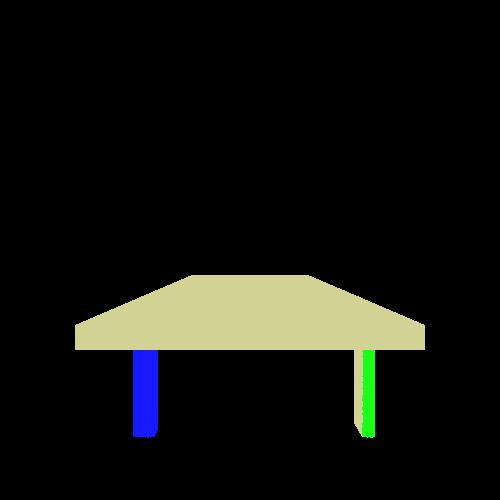
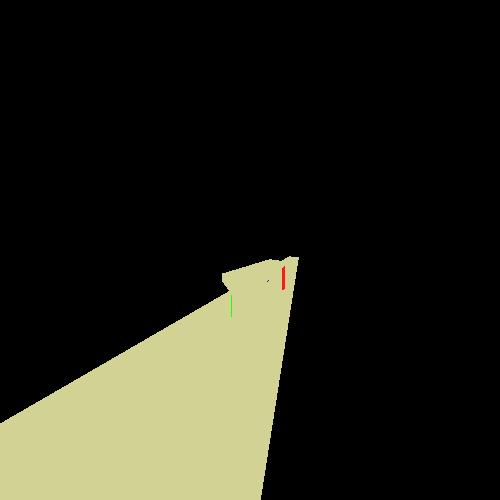
ok set up the numbers and all the data it is really cool that everything really boils down to a few numbers hum maybe i could have done something smaller..

Changed region(s): [[0.0, 0.51, 0.87, 1.0]]

diff --git a/src/testing/tests/quadrantTest.java b/src/testing/tests/quadrantTest.java
@@ -23,29 +23,39 @@ public class quadrantTest {
     public void FinalbiuldTableTest() {
 
         // ***************** values ********************** //
-        double X1Table = 500,X2Table = 0;
-        double Y1Table = 3500,Y2Table = -3500;
+        double X1Table = 500  ,X2Table = 0;
+        double Y1Table = 3500 ,Y2Table = -3500;
         double Z1Table = -1000,Z2Table = -3000;
 
+        double LegX1 = X2Table,LegX2 = -2500;//only these number's are correct
+        double Y1RightLeg =  2700,Y2RightLeg =  3000;
+        double Y1leftLeg  = -3200,Y2leftLeg  = -2500;
+        double Z1FrontLeg = -1200,Z2FrontLeg = -1300;
+        double Z1BackLeg  = -3750,Z2BackLeg  = -3500;
         //ok now legs
         //FrontRightLeg
-        double X1FrontRightLeg = 0, X2FrontRightLeg = -2500;
-        double Y1FrontRightLeg = 2700,Y2FrontRightLeg = 3000;
+        double X1FrontRightLeg = LegX1,X2FrontRightLeg = LegX2;
+        double Y1FrontRightLeg =  2700,Y2FrontRightLeg =  3000;
         double Z1FrontRightLeg = -1200,Z2FrontRightLeg = -1300;
 
         //leftNearLeg
-        double leftNearLegX1 = 0,leftNearLegX2 = leftNearLegX1 - 2500;
-        double leftNearLegY1 = -2800,leftNearLegY2 = leftNearLegY1 + 500;
-        double leftNearLegZ1 = -1200,leftNearLegZ2 = leftNearLegZ1 - 50;
+        double leftNearLegX1 = LegX1,leftNearLegX2 = LegX2;//leftNearLegX1 - 2500;
+        double leftNearLegY1 = -2800,leftNearLegY2 = -2300;//leftNearLegY1 + 500;
+        double leftNearLegZ1 = -1200,leftNearLegZ2 =-1300 ;// leftNearLegZ1 - 50;
         //leftFarLeg
-        double leftFarLegX1 = 0,leftFarLegX2 = leftFarLegX1 - 2500;
-        double leftFarLegY1 = -3000 +200,leftFarLegY2 = leftFarLegY1 + 500 +200;
-        double leftFarLegZ1 = -3500 +50 +200,leftFarLegZ2 = leftFarLegZ1 - 50 +200;
+        double leftFarLegX1 = LegX1   ,leftFarLegX2 = LegX2;
+        double leftFarLegY1 = -3200    ,leftFarLegY2 = -2500;
+        double leftFarLegZ1 = -3750    ,leftFarLegZ2 = -3500;
 
         //BackRightLeg  um these numbers arn't right.......
-        double X1BackRightLeg = 0, X2BackRightLeg = -2500;
+        double X1BackRightLeg = LegX1, X2BackRightLeg = LegX2;
         double Y1BackRightLeg = 2700,Y2BackRightLeg = 3000;
         double Z1BackRightLeg = -1200,Z2BackRightLeg = -1300;
+
+        //Flore
+        double FloreBottom =  LegX2;//so that the legs are on the flore nooo it is floor!!!  ok refacter later....
+        double FloreY1 = -10000,FloreY2 = 10000;
+        double FloreZ1 = 10000,FloreZ2 = -10000;
 
         // ***************** Point3D ********************** //
         //table
@@ -146,6 +156,7 @@ public class quadrantTest {
         Color FLLColor = new Color (0, 0, 250);
         Color BLLColor = new Color (250, 0, 0);
         Color BRLColor = new Color (186, 185, 124);
+        Color FloreColor = new Color (39, 75, 78);
        /* Color TableColor = new Color (186, 185, 124);
         Color FRLColor = new Color (186, 185, 124);
         Color FLLColor = new Color (186, 185, 124);
@@ -259,12 +270,27 @@ public class quadrantTest {
         Camera cNearLeftCorner = new Camera(new Point3D(2000,-4500,500), new Vector(1,0,0),
                 new Vector(0,1,-1));
 
-
         Camera c1 = new Camera(new Point3D(2000,0,0), new Vector(1,0,0), new Vector(0,0,-1));
-        scene.setCamera(c1);
+        scene.setCamera(cfarRightConer);
 
 
         // ***************** Light ********************** //
+
+        scene.addLight(new SpotLight(new Color(255, 100, 100), new Point3D(-200, -200, -150),
+                new Vector(2, 2, -3), 0.1, 0.00001, 0.000005));
+
+        scene.addLight(new SpotLight(new Color(255, 100, 100), new Point3D(-200, -200, -100),
+                new Vector(2, 2, -3), 0, 0.00001, 0.000005));
+
+        // ***************** Flore ********************** //
+        Point3D bottomRightNearFloreConer = new Point3D(FloreBottom,  FloreY2, FloreZ2);//
+        Point3D bottomLeftNearFloreConer = new Point3D(  FloreBottom,  FloreY1, FloreZ2);//
+        Point3D bottomLeftFarFloreConer = new Point3D(FloreBottom, FloreY1, FloreZ1);
+        Point3D bottomRightFarFloreConer = new Point3D(  FloreBottom,  FloreY2, FloreZ1);//
+        quadrilateral2 flore = new quadrilateral2(bottomLeftFarFloreConer, bottomRightFarFloreConer, bottomRightNearFloreConer, bottomLeftNearFloreConer);
+        flore.setEmmission(FloreColor);
+        scene.addGeometry(flore);
+
 
         // ***************** ImageWriter and Render********************** //
 
